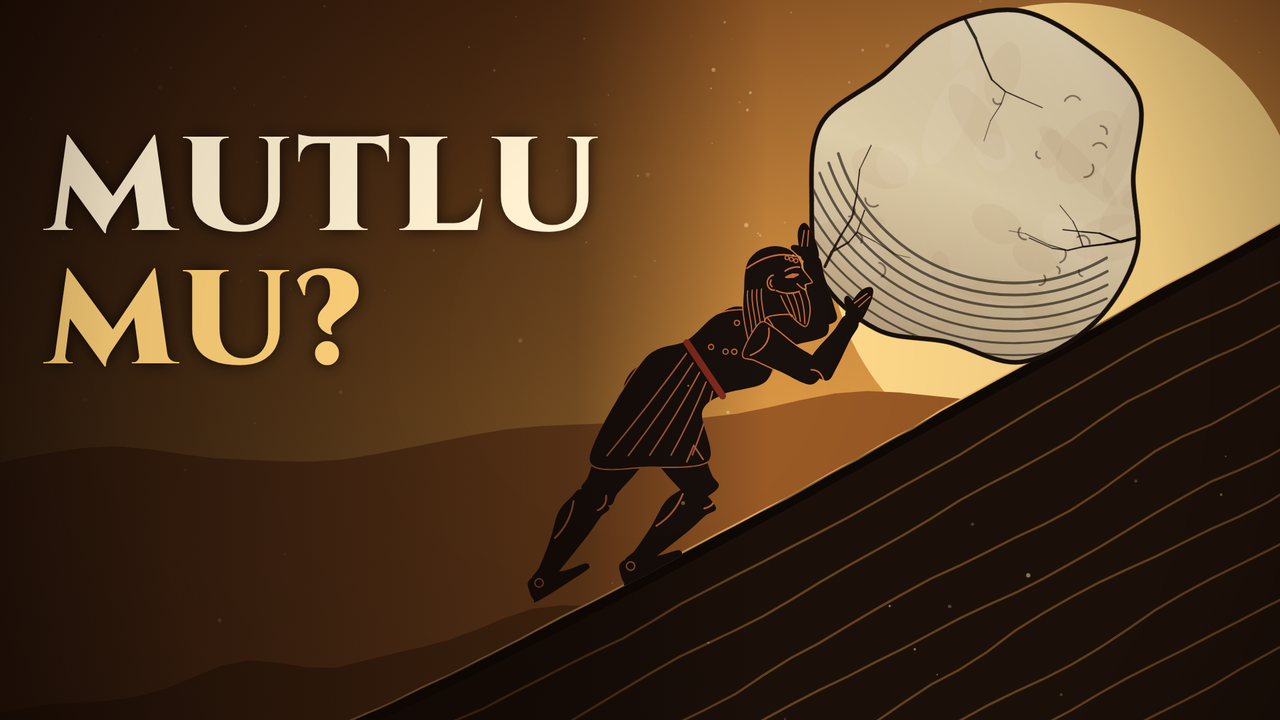
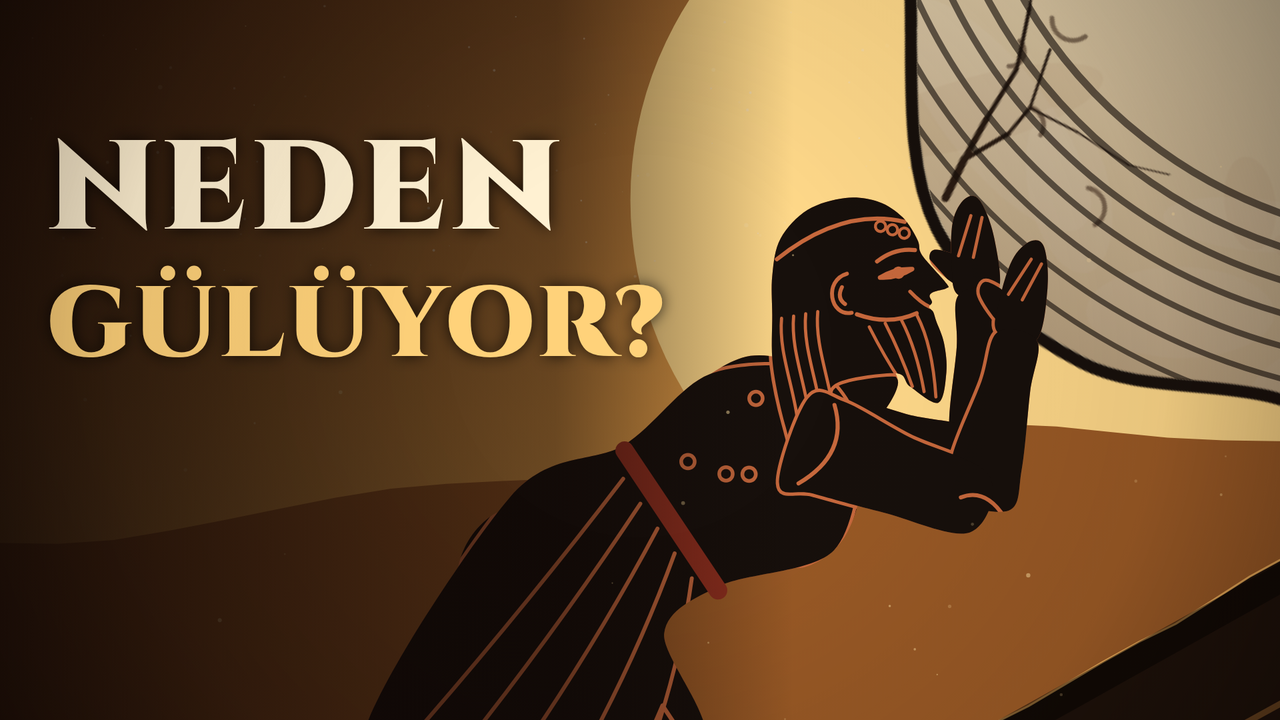
Sisifos: kurul 6. tur (yönetim) düzeltmeleri
- G10 alıntısı ve bitiş kartı yazıları üste alındı (YouTube altyazı bölgesi boş); alıntı geçişten önce söner; uzak el başla birleşmez
- G7b farklı, alçak ve yakın açı; sabit kamera ile kayanın oynaması görünür
- B4 gece sahnesi kararma yerine alacakaranlıktan geceye geçişle açılır
- D9b: salonda sütun sürekliliği; Ares itişten sonra bırakır
- B kapağı: yüz yakın planı, "NEDEN GÜLÜYOR?" (başlığı tekrar etmez)

Claude-Session: https://claude.ai/code/session_01JJLJaY3ACPrjMaXvjxBBQC

diff --git a/sisifos/lib/act6.js b/sisifos/lib/act6.js
@@ -217,7 +217,8 @@ shot(Wd('G07', 'ama') - .12, (ctx, st) => {
   const t = st.t, lt = st.lt, te = Wd('G07', 'ezemediler');
   const w = .6 + warmAt(t) * .35;
   const mv = ramp(t, te - .25, st.end + .4, E.in2), xr = -470 + mv * 46;
-  const c = { x: xr + 40, y: hillY(xr) - 210, z: lerp(1.3, 1.4, E.sine(clamp(lt / st.d))) };
+  // farklı açı (daha yakın, alçak) ve sabit kamera: kayanın yerinden oynaması kadrajda görünür
+  const c = { x: -470 + 20, y: hillY(-470) - 150, z: lerp(1.85, 1.95, E.sine(clamp(lt / st.d))) };
   c.sx = noise1(t * 30, 1) * 2 * ramp(t, te - .3, te); c.sy = 0;
   tartarosBG(ctx, t, c, { warm: w }); tartarosHill(ctx, c, { groove: .9, warm: w });
   ctx.save(); cam(ctx, c, 1); dustBurst(ctx, t, te - .2, xr - 230, hillY(xr - 230), 10, 'rgba(110,60,35,.35)', 90, 9); ctx.restore();
@@ -259,7 +260,7 @@ shot(S('G10') - .3, (ctx, st) => {
   const t = st.t, lt = st.lt, tm = Wd('G10', 'mutlu');
   const xr = 260 + lt * 12;
   const sm = ramp(t, tm - .3, tm + 1.6, E.io2);
-  const po = { dist: xr, smile: sm * 2.2, blink: sm * .4, strain: .3 * (1 - sm), look: -.15 - .2 * sm, reach: 19, T: 1.12 };
+  const po = { dist: xr, smile: sm * 2.2, blink: sm * .4, strain: .3 * (1 - sm), look: -.15 - .2 * sm, reach: 19, T: 1.12, hB: -.28 }; // uzak el kayanın yanında: başla birleşmez
   const P = pushScene(ctx, null, xr, 150, 4.0, t, { ...po, dry: true });
   // "mutlu"da yüze kadar itiş: gülümseme telefonda da okunur
   const push = ramp(t, tm - .4, tm + 2.3, E.io3);
@@ -271,6 +272,10 @@ shot(S('G10') - .3, (ctx, st) => {
   tartarosHill(ctx, c, { groove: .9, warm: 1 });
   pushScene(ctx, c, xr, 150, 4.0, t, po);
   motes(ctx, t, 50, 33, 'rgba(255,225,160,.85)', [0, 0, W, H], 12, 2.2, .7);
-  quote(ctx, '“Sisifos’u mutlu hayal etmek gerekir.”', W / 2, 930, 1600, t - S('G10') + .1, { font: 'italic 600 78px "Cormorant Garamond"', col: '#FFF3D8', shadow: 'rgba(40,15,5,.75)', blur: 18, band: true });
-  txt(ctx, 'Il faut imaginer Sisyphe heureux.  — Albert Camus', W / 2, 1000, { font: 'italic 600 46px "Cormorant Garamond"', col: '#F6E0B8', a: ramp(t, Se('G10') + .3, Se('G10') + 1.3), shadow: 'rgba(0,0,0,.6)', blur: 10 });
+  // alıntı üstte (YouTube altyazı bölgesi olan alt kısım boş kalır); sonraki geçişten önce söner
+  const qa = 1 - ramp(t, S('H01') - .85, S('H01') - .5);
+  ctx.save(); ctx.globalAlpha = qa;
+  quote(ctx, '“Sisifos’u mutlu hayal etmek gerekir.”', W / 2, 150, 1600, t - S('G10') + .1, { font: 'italic 600 78px "Cormorant Garamond"', col: '#FFF3D8', shadow: 'rgba(40,15,5,.75)', blur: 18, band: true });
+  txt(ctx, 'Il faut imaginer Sisyphe heureux.  — Albert Camus', W / 2, 226, { font: 'italic 600 46px "Cormorant Garamond"', col: '#F6E0B8', a: ramp(t, Se('G10') + .3, Se('G10') + 1.3), shadow: 'rgba(0,0,0,.6)', blur: 10 });
+  ctx.restore();
 }, { tr: { type: 'cut' }, post: { tex: .5, vig: .9, grain: .05 } });

diff --git a/sisifos/lib/kapak.js b/sisifos/lib/kapak.js
@@ -47,21 +47,21 @@ function kapakDraw(ctx, L1, L2, f1 = 168, f2 = 132) {
 }
 SCENES.kapak = ctx => kapakDraw(ctx, 'ÖLÜMÜ', 'ZİNCİRLEDİ', 168, 118);
 SCENES.kapak_en = ctx => kapakDraw(ctx, 'HE CHAINED', 'DEATH', 112, 176);
-// B kapağı (YouTube "Test ve Karşılaştır" için): tanıdık imge — kayayı iten, gülümseyen Sisifos; "MUTLU MU?"
+// B kapağı (YouTube "Test ve Karşılaştır" için): yüz yakın planı — kayaya omuz vermiş, gülümseyen Sisifos; "NEDEN GÜLÜYOR?"
 SCENES.kapak_b = ctx => {
-  const xr = 330, po = { dist: xr, smile: 2.2, blink: .4, strain: .3, look: -.3, reach: 19, T: 1.12 };
+  const xr = 330, po = { dist: xr, smile: 2.4, blink: .45, strain: .2, look: -.35, reach: 19, T: 1.12, hB: -.28 };
   const P = pushScene(ctx, null, xr, 150, 4.0, 5, { ...po, dry: true });
-  const z = 1.75, c = { x: P.head[0] - (1180 - W / 2) / z, y: P.head[1] - (470 - H / 2) / z, z };
+  const z = 4.6, c = { x: P.head[0] + (W / 2 - 1330) / z, y: P.head[1] + (H / 2 - 560) / z, z };
   const zk = 1 + (z - 1) * .15, cxk = W / 2 + (c.x - W / 2) * .15, cyk = H / 2 + (c.y - H / 2) * .15;
-  tartarosBG(ctx, 5, c, { warm: 1, diskX: cxk + (1600 - W / 2) / zk, diskY: cyk + (360 - H / 2) / zk, diskR: 320 });
+  tartarosBG(ctx, 5, c, { warm: 1, diskX: cxk + (1500 - W / 2) / zk, diskY: cyk + (300 - H / 2) / zk, diskR: 360 });
   tartarosHill(ctx, c, { groove: .9, warm: 1 });
   pushScene(ctx, c, xr, 150, 4.0, 5, po);
   motes(ctx, 5, 40, 33, 'rgba(255,225,160,.8)', [0, 0, W, H], 12, 2.2, .7);
-  const g = ctx.createLinearGradient(0, 0, W * .6, 0);
-  g.addColorStop(0, 'rgba(14,6,4,.85)'); g.addColorStop(.75, 'rgba(14,6,4,.5)'); g.addColorStop(1, 'rgba(14,6,4,0)');
-  ctx.fillStyle = g; ctx.fillRect(0, 0, W * .6, H);
+  const g = ctx.createLinearGradient(0, 0, W * .62, 0);
+  g.addColorStop(0, 'rgba(14,6,4,.88)'); g.addColorStop(.7, 'rgba(14,6,4,.55)'); g.addColorStop(1, 'rgba(14,6,4,0)');
+  ctx.fillStyle = g; ctx.fillRect(0, 0, W * .62, H);
   const sh = { shadow: 'rgba(0,0,0,.75)', blur: 22 };
-  txt(ctx, 'MUTLU', 70, 300, { font: '900 200px Cinzel', col: '#FFF1D2', align: 'left', ls: 8, ...sh });
-  txt(ctx, 'MU?', 70, 500, { font: '900 200px Cinzel', col: '#FFD27A', align: 'left', ls: 8, ...sh });
+  txt(ctx, 'NEDEN', 70, 300, { font: '900 190px Cinzel', col: '#FFF1D2', align: 'left', ls: 8, ...sh });
+  txt(ctx, 'GÜLÜYOR?', 70, 500, { font: '900 150px Cinzel', col: '#FFD27A', align: 'left', ls: 4, ...sh });
   applyVignette(ctx, .55);
 };

diff --git a/sisifos/lib/act3.js b/sisifos/lib/act3.js
@@ -291,6 +291,7 @@ shot(Wd('D09', 'sisifos') - .15, (ctx, st) => {
   const gy = 900;
   ctx.fillStyle = '#1A0D09'; ctx.fillRect(0, gy, W, 300); ctx.fillStyle = 'rgba(214,130,80,.5)'; ctx.fillRect(0, gy, W, 3);
   // zorla teslim: Ares ilk kareden omzunu kavrar ve sürükler; Sisifos geriye yaslanır, topukları kayar, kolu savunmada; son itiş "teslim"de
+  column(ctx, 96, 80, gy, 80, '#2A140C', '#6A3020'); // aynı salon: D9'daki sütunlardan biri kadrajın kenarında
   const t0 = st.start ?? (Wd('D09', 'sisifos') - .15), drag = ramp(t, t0, tg - .5, E.io2), shove = ramp(t, tg - .5, tg + .1, E.in2), pull = ramp(t, tg + .3, tg + 1.3, E.io2);
   const xs = lerp(760, 900, drag) + shove * 110 + pull * 110;
   const strug = (1 - shove) * Math.sin(t * 9) * .05;
@@ -304,7 +305,7 @@ shot(Wd('D09', 'sisifos') - .15, (ctx, st) => {
   const fy = gy - 3 * 6.4;
   figure(ctx, { x: ax, y: gy - 44 * 6.4, s: 6.4, lk: LK.ares,
     p: { torso: .3 + shove * .15, neck: -.1, head: -.1, handN: 'open', shF: .3, elF: 1.4, brow: -1.2, mouthOpen: shove * (1 - pull) * .4 },
-    ik: { hN: shS ? [shS[0] - 10, shS[1] + 6] : [xs - 60, gy - 380], fN: [lerp(520, 790, st1), fy - Math.sin(st1 * PI) * 36, 0], fF: [lerp(400, 690, st2), fy - Math.sin(st2 * PI) * 30, 0] } }); // ayaklar zemine kilitli: iki adım
+    ik: { hN: shS ? lerp2([shS[0] - 10, shS[1] + 6], [ax + 70, gy - 330], pull) : [xs - 60, gy - 380], fN: [lerp(520, 790, st1), fy - Math.sin(st1 * PI) * 36, 0], fF: [lerp(400, 690, st2), fy - Math.sin(st2 * PI) * 30, 0] } }); // ayaklar zemine kilitli: iki adım
   // Thanatos: kanatlar açık, Sisifos'un bileğini yakalar
   const grab = ramp(t, tg - .2, tg + .3, E.out3);
   figure(ctx, { x: 1420 - pull * 40, y: gy - 47 * 6.6, s: 6.6, dir: -1, lk: LK.thanatos, ...THS, cutCol: '#140A07',

diff --git a/sisifos/lib/act1.js b/sisifos/lib/act1.js
@@ -158,7 +158,9 @@ shot(Wd('B03', 'homeros') - .2, (ctx, st) => {
 shot(S('B04') - .85, (ctx, st) => {
   const t = st.t, lt = st.lt, tr = Wd('B04', 'rengini'), ts = Wd('B04', 'sisifosun');
   if (t >= ts - .1) return drawB4b(ctx, st, ts);
-  clayBG(ctx, '#64301E', '#2E140C'); // gece, ama siluetler okunacak kadar açık
+  // alacakaranlıktan geceye (bölüm içi zaman geçişi; bölüm sonu gibi kararmaz)
+  const dusk = 1 - ramp(lt, .2, 1.6, E.io2);
+  clayBG(ctx, mixCol('#64301E', '#C26A3C', dusk), mixCol('#2E140C', '#7A3A1E', dusk));
   stars(ctx, t, 180, 9, 'rgba(255,230,190,.8)', [0, 0, W, H * .55]);
   disk(ctx, 1520, 200, 70, '#F2E3C2', 'rgba(255,235,190,.25)');
   const gy = 860;
@@ -178,7 +180,7 @@ shot(S('B04') - .85, (ctx, st) => {
   if (t > tr && t < tr + 1.2) for (let i = 0; i < 10; i++) sparkle(ctx, ccx - 120 + hash(i) * 240, gy - 160 + hash(i + 9) * 120, 14, clamp(1 - Math.abs(t - tr - .4 - hash(i) * .5) * 3));
   flatWalk(ctx, ax + gone * 520, gy, 4.2, t, gone > 0 ? 1 : -1, { lk: LK.autolykos, dist: lt * 50, ...sneak });
   nameTag(ctx, 'AUTOLYKOS', 'Ünlü hırsız', 120, 140, t - Wd('B04', 'otolikos') + .1, 3.0, { col: C.white });
-}, { tr: { type: 'black', dur: .7 }, post: { tex: .6, vig: 1, grain: .07 }, mb: 12 });
+}, { tr: { type: 'cut' }, post: { tex: .6, vig: 1, grain: .07 }, mb: 12 });
 function drawB4b(ctx, st, ts) {
   const t = st.t, lt2 = t - ts;
   // gün-gece döngüsü ve azalan sürü

diff --git a/sisifos/lib/act7.js b/sisifos/lib/act7.js
@@ -142,10 +142,10 @@ shot(S('H04') - .3, (ctx, st) => {
   const t = st.t, lt = st.lt;
   museum(ctx, t, .7);
   const a = ramp(lt, 0, 1.2, E.io2);
-  drawVase(ctx, lerp(W / 2, 470, a), lerp(600, 520, a), lerp(1.0, .7, a), segRot(STRIP_N - 1) + Math.sin(lt * .5) * .005, { t });
+  drawVase(ctx, lerp(W / 2, 470, a), lerp(600, 610, a), lerp(1.0, .7, a), segRot(STRIP_N - 1) + Math.sin(lt * .5) * .005, { t });
   ctx.save(); ctx.globalAlpha = ramp(lt, .6, 1.6);
-  txt(ctx, 'SİSİFOS', 470, 935, { font: '900 68px Cinzel', col: '#F3E2BC', ls: 16 });
+  txt(ctx, 'SİSİFOS', 470, 120, { font: '900 68px Cinzel', col: '#F3E2BC', ls: 16 });
   ctx.restore();
-  quote(ctx, 'Senin kayan neyse, yorumlarda anlat.', 470, 1005, 900, lt - .6, { font: 'italic 600 46px "Cormorant Garamond"', col: '#E9D3AE' });
+  quote(ctx, 'Senin kayan neyse, yorumlarda anlat.', 470, 192, 900, lt - .6, { font: 'italic 600 46px "Cormorant Garamond"', col: '#E9D3AE' });
   // sağ taraf YouTube bitiş ekranı öğeleri için boş bırakılır
 }, { tr: { type: 'cut' }, post: { tex: .35, vig: 1, grain: .05 } });
